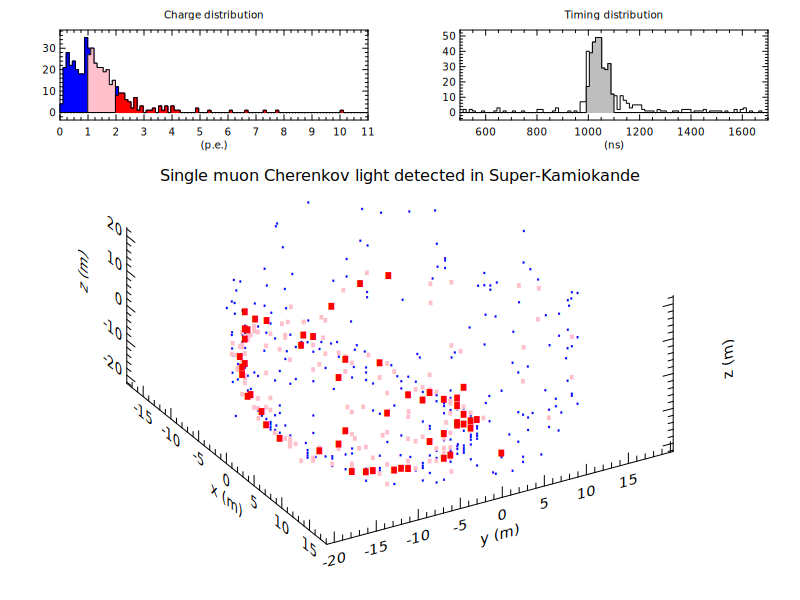
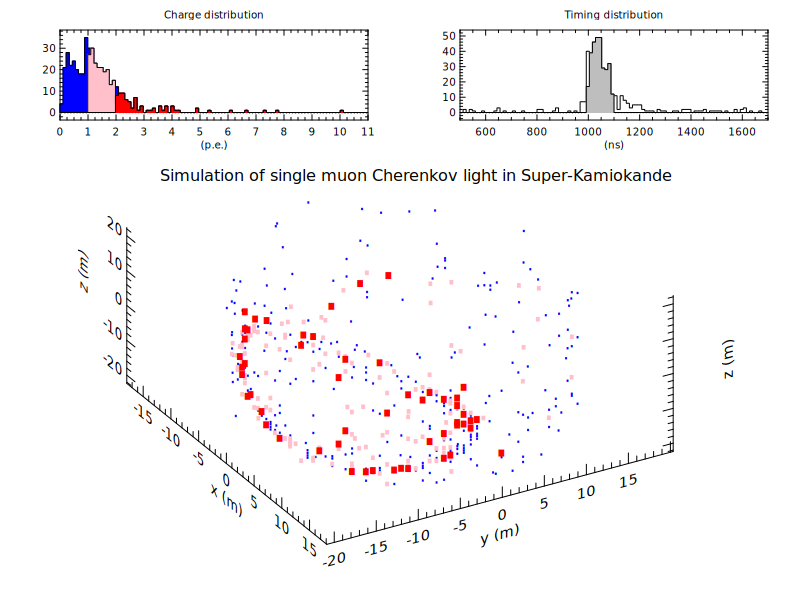
doc,jp modify description of examples of public data

Changed region(s): [[0.2188, 0.27, 0.8438, 0.3]]

diff --git a/doc/ex/ex24.md b/doc/ex/ex24.md
@@ -1,4 +1,4 @@
-# ex24: Single muon Cherenkov light detected in Super-Kamiokande
+# ex24: Simulation of single muon Cherenkov light
 ```
 #
 # data from:
@@ -19,7 +19,7 @@ plot3 xm ym zm (ss:3 sc:red  cc:"2<=charge & 1000<time<1100" rp:1)
 
 div 1 12
 box 0 10 0 10 (lw:0 bp:4)
-text 1 5 "Single muon Cherenkov light detected in Super-Kamiokande" (ts:3)
+text 1 5 "Simulation of single muon Cherenkov light in Super-Kamiokande" (ts:3)
 
 div 2 4
 title "Charge distribution"; xlab "(p.e.)"; ylab " "

diff --git a/doc/examples.md b/doc/examples.md
@@ -26,9 +26,9 @@
 - [ex21: Absolute coordinate and Relative coordinate](ex/ex21.md)
 - [ex22: Gain curve of Low Pass Filter](ex/ex22.md)
 
-## Examples using real data
+## Examples using public research data
 - [ex23: Huge data reading and scatter plot](ex/ex23.md)
-- [ex24: Single muon Cherenkov light detected in Super-Kamiokande](ex/ex24.md)
+- [ex24: Simulation of single muon Cherenkov light](ex/ex24.md)
 
 ## EPICS CA (optional)
 

diff --git a/jp/examples.md b/jp/examples.md
@@ -28,10 +28,10 @@
 
 
 
-## 実データを使用した例
+## 公開されている研究データを使用した例
 
 - [ex23: Huge data reading and scatter plot](../doc/ex/ex23.md)
-- [ex24: Single muon Cherenkov light detected in Super-Kamiokande](../doc/ex/ex24.md)
+- [ex24: Simulation of single muon Cherenkov light](../doc/ex/ex24.md)
 
 ## EPICS CA (オプション機能)
 
